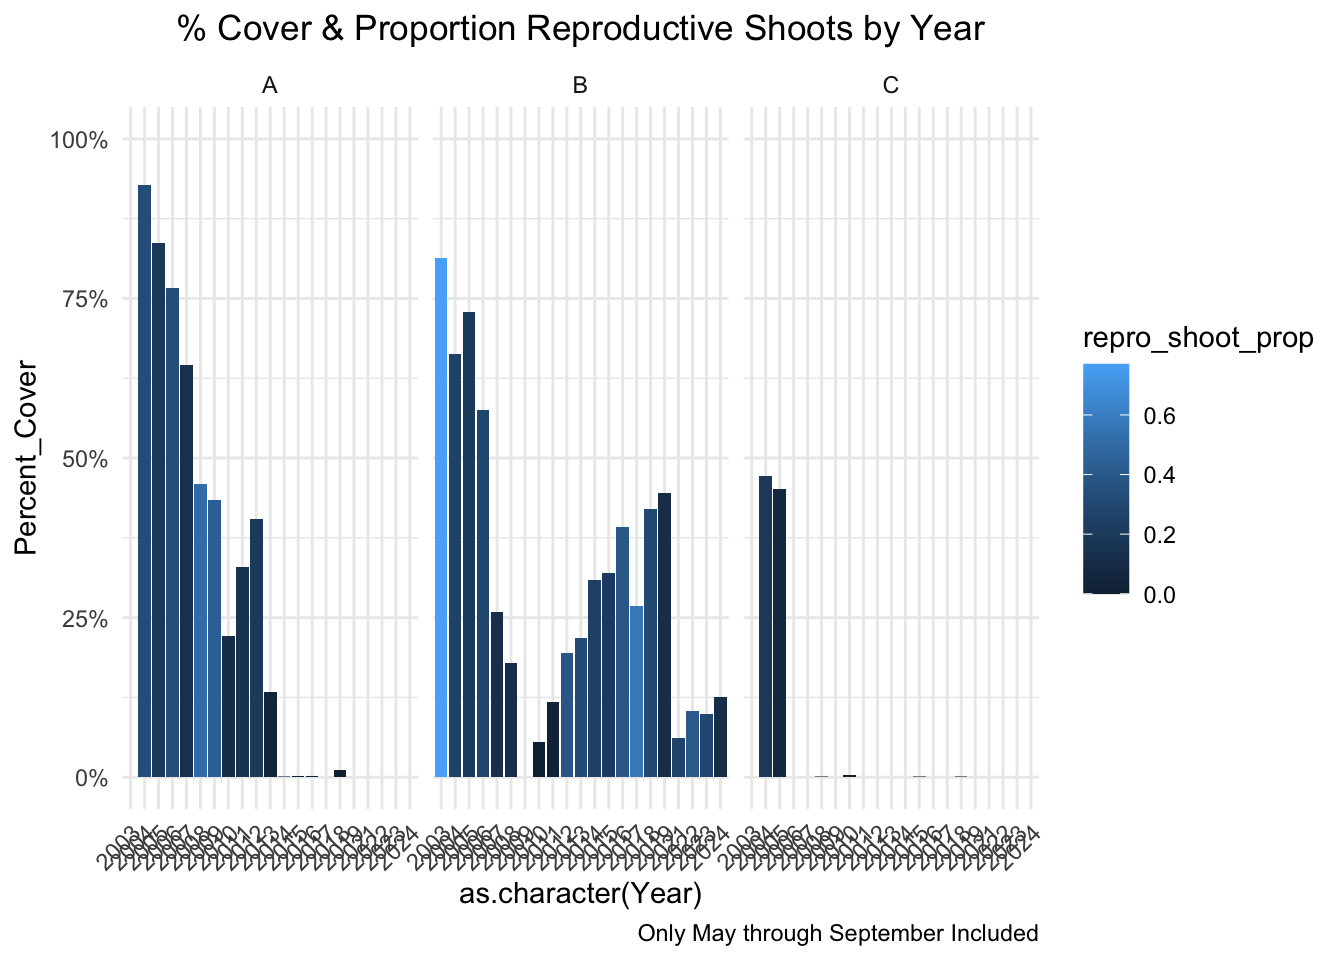
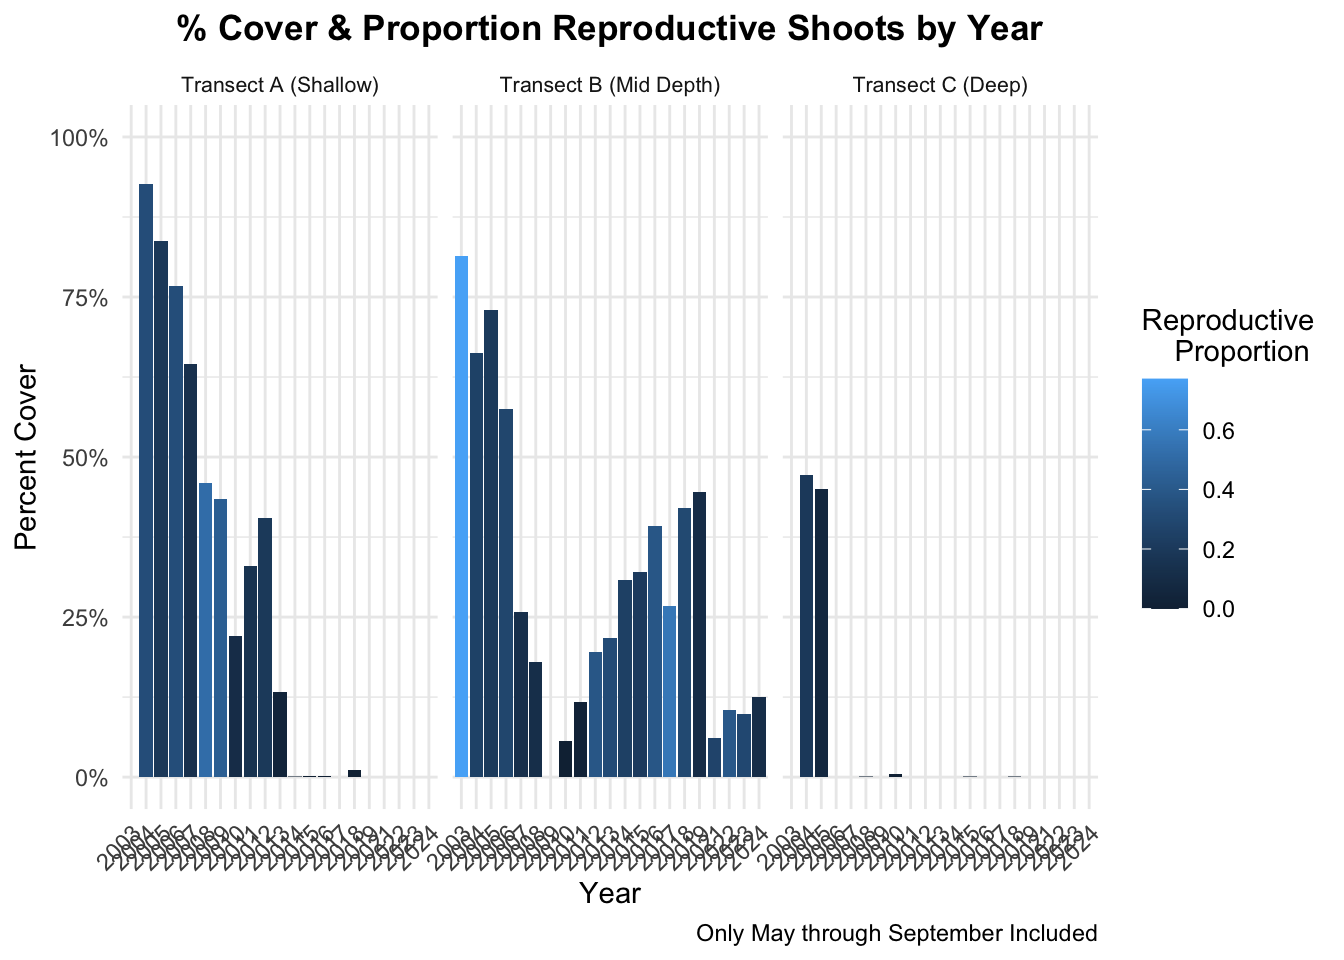
Update plot labeling and clarity

Changed region(s): [[0.0, 0.0, 1.0, 1.0]]

diff --git a/quarto_docs/nps_eelgrass_monitor.html b/quarto_docs/nps_eelgrass_monitor.html
@@ -303,17 +303,34 @@ pre > code.sourceCode > span > a:first-child::before { text-decoration: underlin
 <span id="cb9-11"><a href="#cb9-11" aria-hidden="true" tabindex="-1"></a><span class="co">#        caption = "Only May through September Included")</span></span>
 <span id="cb9-12"><a href="#cb9-12" aria-hidden="true" tabindex="-1"></a></span>
 <span id="cb9-13"><a href="#cb9-13" aria-hidden="true" tabindex="-1"></a></span>
-<span id="cb9-14"><a href="#cb9-14" aria-hidden="true" tabindex="-1"></a><span class="co"># Bar plot showing percent cover by year, colored by proportion of shoots which are reproductive</span></span>
-<span id="cb9-15"><a href="#cb9-15" aria-hidden="true" tabindex="-1"></a><span class="fu">ggplot</span>(dh_data_summary_fruiting,</span>
-<span id="cb9-16"><a href="#cb9-16" aria-hidden="true" tabindex="-1"></a>       <span class="fu">aes</span>(<span class="at">x =</span> <span class="fu">as.character</span>(Year), <span class="at">y =</span> Percent_Cover, <span class="at">fill =</span> repro_shoot_prop)) <span class="sc">+</span></span>
-<span id="cb9-17"><a href="#cb9-17" aria-hidden="true" tabindex="-1"></a>  <span class="fu">geom_bar</span>(<span class="at">stat =</span> <span class="st">"identity"</span>) <span class="sc">+</span></span>
-<span id="cb9-18"><a href="#cb9-18" aria-hidden="true" tabindex="-1"></a>  <span class="fu">scale_y_continuous</span>(</span>
-<span id="cb9-19"><a href="#cb9-19" aria-hidden="true" tabindex="-1"></a>    <span class="at">labels =</span> scales<span class="sc">::</span><span class="fu">percent_format</span>(),</span>
-<span id="cb9-20"><a href="#cb9-20" aria-hidden="true" tabindex="-1"></a>    <span class="at">limits =</span> <span class="fu">c</span>(<span class="dv">0</span>, <span class="dv">1</span>)</span>
-<span id="cb9-21"><a href="#cb9-21" aria-hidden="true" tabindex="-1"></a>  ) <span class="sc">+</span></span>
-<span id="cb9-22"><a href="#cb9-22" aria-hidden="true" tabindex="-1"></a>  <span class="fu">facet_wrap</span>(<span class="sc">~</span>Transect) <span class="sc">+</span> </span>
-<span id="cb9-23"><a href="#cb9-23" aria-hidden="true" tabindex="-1"></a>  <span class="fu">labs</span>(<span class="at">title =</span> <span class="st">"% Cover &amp; Proportion Reproductive Shoots by Year"</span>,</span>
-<span id="cb9-24"><a href="#cb9-24" aria-hidden="true" tabindex="-1"></a>       <span class="at">caption =</span> <span class="st">"Only May through September Included"</span>)</span></code><button title="Copy to Clipboard" class="code-copy-button"><i class="bi"></i></button></pre></div>
+<span id="cb9-14"><a href="#cb9-14" aria-hidden="true" tabindex="-1"></a><span class="co"># Create facet labels for faceted plots</span></span>
+<span id="cb9-15"><a href="#cb9-15" aria-hidden="true" tabindex="-1"></a>transect_labels <span class="ot">&lt;-</span> <span class="fu">c</span>(</span>
+<span id="cb9-16"><a href="#cb9-16" aria-hidden="true" tabindex="-1"></a>  <span class="st">"A"</span> <span class="ot">=</span> <span class="st">"Transect A (Shallow)"</span>,</span>
+<span id="cb9-17"><a href="#cb9-17" aria-hidden="true" tabindex="-1"></a>  <span class="st">"B"</span> <span class="ot">=</span> <span class="st">"Transect B (Mid Depth)"</span>,</span>
+<span id="cb9-18"><a href="#cb9-18" aria-hidden="true" tabindex="-1"></a>  <span class="st">"C"</span> <span class="ot">=</span> <span class="st">"Transect C (Deep)"</span></span>
+<span id="cb9-19"><a href="#cb9-19" aria-hidden="true" tabindex="-1"></a>)</span>
+<span id="cb9-20"><a href="#cb9-20" aria-hidden="true" tabindex="-1"></a></span>
+<span id="cb9-21"><a href="#cb9-21" aria-hidden="true" tabindex="-1"></a><span class="co"># Bar plot showing percent cover by year, colored by proportion of shoots which are reproductive</span></span>
+<span id="cb9-22"><a href="#cb9-22" aria-hidden="true" tabindex="-1"></a><span class="fu">ggplot</span>(dh_data_summary_fruiting,</span>
+<span id="cb9-23"><a href="#cb9-23" aria-hidden="true" tabindex="-1"></a>       <span class="fu">aes</span>(<span class="at">x =</span> <span class="fu">as.character</span>(Year), <span class="at">y =</span> Percent_Cover, <span class="at">fill =</span> repro_shoot_prop)) <span class="sc">+</span></span>
+<span id="cb9-24"><a href="#cb9-24" aria-hidden="true" tabindex="-1"></a>  <span class="fu">geom_bar</span>(<span class="at">stat =</span> <span class="st">"identity"</span>) <span class="sc">+</span></span>
+<span id="cb9-25"><a href="#cb9-25" aria-hidden="true" tabindex="-1"></a>  <span class="fu">scale_y_continuous</span>(</span>
+<span id="cb9-26"><a href="#cb9-26" aria-hidden="true" tabindex="-1"></a>    <span class="at">labels =</span> scales<span class="sc">::</span><span class="fu">percent_format</span>(),</span>
+<span id="cb9-27"><a href="#cb9-27" aria-hidden="true" tabindex="-1"></a>    <span class="at">limits =</span> <span class="fu">c</span>(<span class="dv">0</span>, <span class="dv">1</span>)</span>
+<span id="cb9-28"><a href="#cb9-28" aria-hidden="true" tabindex="-1"></a>  ) <span class="sc">+</span></span>
+<span id="cb9-29"><a href="#cb9-29" aria-hidden="true" tabindex="-1"></a>  <span class="fu">facet_wrap</span>(<span class="sc">~</span>Transect, <span class="at">labeller =</span> <span class="fu">labeller</span>(<span class="at">Transect =</span> transect_labels)) <span class="sc">+</span> </span>
+<span id="cb9-30"><a href="#cb9-30" aria-hidden="true" tabindex="-1"></a>  <span class="fu">labs</span>(</span>
+<span id="cb9-31"><a href="#cb9-31" aria-hidden="true" tabindex="-1"></a>    <span class="at">title =</span> <span class="st">"% Cover &amp; Proportion Reproductive Shoots by Year"</span>,</span>
+<span id="cb9-32"><a href="#cb9-32" aria-hidden="true" tabindex="-1"></a>    <span class="at">caption =</span> <span class="st">"Only May through September Included"</span>,</span>
+<span id="cb9-33"><a href="#cb9-33" aria-hidden="true" tabindex="-1"></a>    <span class="at">fill =</span> <span class="st">"Reproductive</span></span>
+<span id="cb9-34"><a href="#cb9-34" aria-hidden="true" tabindex="-1"></a><span class="st">    Proportion"</span>,</span>
+<span id="cb9-35"><a href="#cb9-35" aria-hidden="true" tabindex="-1"></a>    <span class="at">x =</span> <span class="st">"Year"</span>,</span>
+<span id="cb9-36"><a href="#cb9-36" aria-hidden="true" tabindex="-1"></a>    <span class="at">y =</span> <span class="st">"Percent Cover"</span></span>
+<span id="cb9-37"><a href="#cb9-37" aria-hidden="true" tabindex="-1"></a>  ) <span class="sc">+</span></span>
+<span id="cb9-38"><a href="#cb9-38" aria-hidden="true" tabindex="-1"></a>  <span class="fu">theme</span>(</span>
+<span id="cb9-39"><a href="#cb9-39" aria-hidden="true" tabindex="-1"></a>    <span class="at">strip.text =</span> <span class="fu">element_text</span>(<span class="at">size =</span> <span class="dv">8</span>),</span>
+<span id="cb9-40"><a href="#cb9-40" aria-hidden="true" tabindex="-1"></a>    <span class="at">plot.title =</span> <span class="fu">element_text</span>(<span class="at">hjust =</span> <span class="fl">0.5</span>, <span class="at">face =</span> <span class="st">"bold"</span>)</span>
+<span id="cb9-41"><a href="#cb9-41" aria-hidden="true" tabindex="-1"></a>  )</span></code><button title="Copy to Clipboard" class="code-copy-button"><i class="bi"></i></button></pre></div>
 </details>
 <div class="cell-output-display">
 <div>
@@ -351,9 +368,22 @@ pre > code.sourceCode > span > a:first-child::before { text-decoration: underlin
 <span id="cb10-25"><a href="#cb10-25" aria-hidden="true" tabindex="-1"></a>    <span class="at">labels =</span> scales<span class="sc">::</span><span class="fu">percent_format</span>(),</span>
 <span id="cb10-26"><a href="#cb10-26" aria-hidden="true" tabindex="-1"></a>    <span class="at">limits =</span> <span class="fu">c</span>(<span class="dv">0</span>, <span class="dv">1</span>)</span>
 <span id="cb10-27"><a href="#cb10-27" aria-hidden="true" tabindex="-1"></a>  ) <span class="sc">+</span></span>
-<span id="cb10-28"><a href="#cb10-28" aria-hidden="true" tabindex="-1"></a>  <span class="fu">facet_wrap</span>(<span class="sc">~</span>Transect) <span class="sc">+</span> </span>
-<span id="cb10-29"><a href="#cb10-29" aria-hidden="true" tabindex="-1"></a>  <span class="fu">labs</span>(<span class="at">title =</span> <span class="st">"% Cover &amp; Proportion of Reproductive Shoots by Year"</span>,</span>
-<span id="cb10-30"><a href="#cb10-30" aria-hidden="true" tabindex="-1"></a>       <span class="at">caption =</span> <span class="st">"Only May through September Included"</span>)</span></code><button title="Copy to Clipboard" class="code-copy-button"><i class="bi"></i></button></pre></div>
+<span id="cb10-28"><a href="#cb10-28" aria-hidden="true" tabindex="-1"></a>  <span class="fu">facet_wrap</span>(<span class="sc">~</span>Transect, <span class="at">labeller =</span> <span class="fu">labeller</span>(<span class="at">Transect =</span> transect_labels)) <span class="sc">+</span></span>
+<span id="cb10-29"><a href="#cb10-29" aria-hidden="true" tabindex="-1"></a>  <span class="fu">labs</span>(<span class="at">title =</span> <span class="st">"Proportion of Reproductive Shoots by Year"</span>,</span>
+<span id="cb10-30"><a href="#cb10-30" aria-hidden="true" tabindex="-1"></a>       <span class="at">caption =</span> <span class="st">"Only May through September Included"</span>,</span>
+<span id="cb10-31"><a href="#cb10-31" aria-hidden="true" tabindex="-1"></a>       <span class="at">x =</span> <span class="st">"Year"</span>,</span>
+<span id="cb10-32"><a href="#cb10-32" aria-hidden="true" tabindex="-1"></a>       <span class="at">y =</span> <span class="st">"Proportion of Total Shoots"</span>,</span>
+<span id="cb10-33"><a href="#cb10-33" aria-hidden="true" tabindex="-1"></a>       <span class="at">fill =</span> <span class="st">"Cover Type"</span></span>
+<span id="cb10-34"><a href="#cb10-34" aria-hidden="true" tabindex="-1"></a>       ) <span class="sc">+</span></span>
+<span id="cb10-35"><a href="#cb10-35" aria-hidden="true" tabindex="-1"></a>  <span class="fu">scale_fill_manual</span>(</span>
+<span id="cb10-36"><a href="#cb10-36" aria-hidden="true" tabindex="-1"></a>    <span class="at">values =</span> <span class="fu">c</span>(<span class="st">"non_repro_shoot_prop"</span> <span class="ot">=</span> <span class="st">"#A9B7A9"</span>, <span class="st">"repro_shoot_prop"</span> <span class="ot">=</span> <span class="st">"darkgreen"</span>),</span>
+<span id="cb10-37"><a href="#cb10-37" aria-hidden="true" tabindex="-1"></a>    <span class="at">labels =</span> <span class="fu">c</span>(<span class="st">"non_repro_shoot_prop"</span> <span class="ot">=</span> <span class="st">"Reproductive Shoots"</span>, </span>
+<span id="cb10-38"><a href="#cb10-38" aria-hidden="true" tabindex="-1"></a>               <span class="st">"repro_shoot_prop"</span> <span class="ot">=</span> <span class="st">"Non-Reproductive Shoots"</span>)</span>
+<span id="cb10-39"><a href="#cb10-39" aria-hidden="true" tabindex="-1"></a>  ) <span class="sc">+</span></span>
+<span id="cb10-40"><a href="#cb10-40" aria-hidden="true" tabindex="-1"></a>  <span class="fu">theme</span>(</span>
+<span id="cb10-41"><a href="#cb10-41" aria-hidden="true" tabindex="-1"></a>    <span class="at">strip.text =</span> <span class="fu">element_text</span>(<span class="at">size =</span> <span class="dv">8</span>),</span>
+<span id="cb10-42"><a href="#cb10-42" aria-hidden="true" tabindex="-1"></a>    <span class="at">plot.title =</span> <span class="fu">element_text</span>(<span class="at">hjust =</span> <span class="fl">0.5</span>, <span class="at">face =</span> <span class="st">"bold"</span>)</span>
+<span id="cb10-43"><a href="#cb10-43" aria-hidden="true" tabindex="-1"></a>  )</span></code><button title="Copy to Clipboard" class="code-copy-button"><i class="bi"></i></button></pre></div>
 </details>
 <div class="cell-output-display">
 <div>
@@ -403,9 +433,20 @@ pre > code.sourceCode > span > a:first-child::before { text-decoration: underlin
 <span id="cb11-37"><a href="#cb11-37" aria-hidden="true" tabindex="-1"></a>      <span class="st">"prop_wasting_high"</span> <span class="ot">=</span> <span class="st">"red"</span>,</span>
 <span id="cb11-38"><a href="#cb11-38" aria-hidden="true" tabindex="-1"></a>      <span class="st">"prop_wasting_low"</span> <span class="ot">=</span> <span class="st">"skyblue"</span>,</span>
 <span id="cb11-39"><a href="#cb11-39" aria-hidden="true" tabindex="-1"></a>      <span class="st">"prop_wasting_trace"</span> <span class="ot">=</span> <span class="st">"lightgreen"</span>,</span>
-<span id="cb11-40"><a href="#cb11-40" aria-hidden="true" tabindex="-1"></a>      <span class="st">"prop_wasting_none"</span> <span class="ot">=</span> <span class="st">"gray"</span>)) <span class="sc">+</span></span>
-<span id="cb11-41"><a href="#cb11-41" aria-hidden="true" tabindex="-1"></a>  <span class="fu">facet_wrap</span>(<span class="sc">~</span>Transect) <span class="sc">+</span></span>
-<span id="cb11-42"><a href="#cb11-42" aria-hidden="true" tabindex="-1"></a>  <span class="fu">labs</span>(<span class="at">title =</span> <span class="st">"Wasting Status Proportion by Year"</span>)</span></code><button title="Copy to Clipboard" class="code-copy-button"><i class="bi"></i></button></pre></div>
+<span id="cb11-40"><a href="#cb11-40" aria-hidden="true" tabindex="-1"></a>      <span class="st">"prop_wasting_none"</span> <span class="ot">=</span> <span class="st">"gray"</span>),</span>
+<span id="cb11-41"><a href="#cb11-41" aria-hidden="true" tabindex="-1"></a>    <span class="at">labels =</span> <span class="fu">c</span>(</span>
+<span id="cb11-42"><a href="#cb11-42" aria-hidden="true" tabindex="-1"></a>      <span class="st">"prop_wasting_high"</span> <span class="ot">=</span> <span class="st">"High"</span>,</span>
+<span id="cb11-43"><a href="#cb11-43" aria-hidden="true" tabindex="-1"></a>      <span class="st">"prop_wasting_low"</span> <span class="ot">=</span> <span class="st">"Low"</span>,</span>
+<span id="cb11-44"><a href="#cb11-44" aria-hidden="true" tabindex="-1"></a>      <span class="st">"prop_wasting_trace"</span> <span class="ot">=</span> <span class="st">"Trace"</span>,</span>
+<span id="cb11-45"><a href="#cb11-45" aria-hidden="true" tabindex="-1"></a>      <span class="st">"prop_wasting_none"</span> <span class="ot">=</span> <span class="st">"None"</span>)) <span class="sc">+</span></span>
+<span id="cb11-46"><a href="#cb11-46" aria-hidden="true" tabindex="-1"></a>  <span class="fu">facet_wrap</span>(<span class="sc">~</span>Transect, <span class="at">labeller =</span> <span class="fu">labeller</span>(<span class="at">Transect =</span> transect_labels)) <span class="sc">+</span></span>
+<span id="cb11-47"><a href="#cb11-47" aria-hidden="true" tabindex="-1"></a>  <span class="fu">labs</span>(<span class="at">title =</span> <span class="st">"Wasting Status Proportion by Year"</span>,</span>
+<span id="cb11-48"><a href="#cb11-48" aria-hidden="true" tabindex="-1"></a>       <span class="at">x =</span> <span class="st">"Year"</span>,</span>
+<span id="cb11-49"><a href="#cb11-49" aria-hidden="true" tabindex="-1"></a>       <span class="at">y =</span> <span class="st">"Proportion"</span>) <span class="sc">+</span></span>
+<span id="cb11-50"><a href="#cb11-50" aria-hidden="true" tabindex="-1"></a>  <span class="fu">theme</span>(</span>
+<span id="cb11-51"><a href="#cb11-51" aria-hidden="true" tabindex="-1"></a>    <span class="at">strip.text =</span> <span class="fu">element_text</span>(<span class="at">size =</span> <span class="dv">8</span>),</span>
+<span id="cb11-52"><a href="#cb11-52" aria-hidden="true" tabindex="-1"></a>    <span class="at">plot.title =</span> <span class="fu">element_text</span>(<span class="at">hjust =</span> <span class="fl">0.5</span>, <span class="at">face =</span> <span class="st">"bold"</span>)</span>
+<span id="cb11-53"><a href="#cb11-53" aria-hidden="true" tabindex="-1"></a>  )</span></code><button title="Copy to Clipboard" class="code-copy-button"><i class="bi"></i></button></pre></div>
 </details>
 <div class="cell-output-display">
 <div>
@@ -423,8 +464,16 @@ pre > code.sourceCode > span > a:first-child::before { text-decoration: underlin
 <span id="cb12-5"><a href="#cb12-5" aria-hidden="true" tabindex="-1"></a>    <span class="at">labels =</span> scales<span class="sc">::</span><span class="fu">percent_format</span>(),</span>
 <span id="cb12-6"><a href="#cb12-6" aria-hidden="true" tabindex="-1"></a>    <span class="at">limits =</span> <span class="fu">c</span>(<span class="dv">0</span>, <span class="dv">1</span>)) <span class="sc">+</span></span>
 <span id="cb12-7"><a href="#cb12-7" aria-hidden="true" tabindex="-1"></a>  <span class="fu">scale_fill_gradient</span>(<span class="at">low =</span> <span class="st">"gray"</span>, <span class="at">high =</span> <span class="st">"red"</span>) <span class="sc">+</span></span>
-<span id="cb12-8"><a href="#cb12-8" aria-hidden="true" tabindex="-1"></a>  <span class="fu">facet_wrap</span>(<span class="sc">~</span>Transect) <span class="sc">+</span> </span>
-<span id="cb12-9"><a href="#cb12-9" aria-hidden="true" tabindex="-1"></a>  <span class="fu">labs</span>(<span class="at">title =</span> <span class="st">"% Cover &amp; Proportion High Wasting Disease by Year"</span>)</span></code><button title="Copy to Clipboard" class="code-copy-button"><i class="bi"></i></button></pre></div>
+<span id="cb12-8"><a href="#cb12-8" aria-hidden="true" tabindex="-1"></a>  <span class="fu">facet_wrap</span>(<span class="sc">~</span>Transect, <span class="at">labeller =</span> <span class="fu">labeller</span>(<span class="at">Transect =</span> transect_labels)) <span class="sc">+</span></span>
+<span id="cb12-9"><a href="#cb12-9" aria-hidden="true" tabindex="-1"></a>  <span class="fu">labs</span>(<span class="at">title =</span> <span class="st">"% Cover &amp; Proportion High Wasting Disease by Year"</span>,</span>
+<span id="cb12-10"><a href="#cb12-10" aria-hidden="true" tabindex="-1"></a>       <span class="at">x =</span> <span class="st">"Year"</span>,</span>
+<span id="cb12-11"><a href="#cb12-11" aria-hidden="true" tabindex="-1"></a>       <span class="at">y =</span> <span class="st">"Percent Cover"</span>,</span>
+<span id="cb12-12"><a href="#cb12-12" aria-hidden="true" tabindex="-1"></a>       <span class="at">fill =</span> <span class="st">"Proportion with High</span></span>
+<span id="cb12-13"><a href="#cb12-13" aria-hidden="true" tabindex="-1"></a><span class="st">    Levels of Wasting"</span>) <span class="sc">+</span></span>
+<span id="cb12-14"><a href="#cb12-14" aria-hidden="true" tabindex="-1"></a>  <span class="fu">theme</span>(</span>
+<span id="cb12-15"><a href="#cb12-15" aria-hidden="true" tabindex="-1"></a>    <span class="at">strip.text =</span> <span class="fu">element_text</span>(<span class="at">size =</span> <span class="dv">8</span>),</span>
+<span id="cb12-16"><a href="#cb12-16" aria-hidden="true" tabindex="-1"></a>    <span class="at">plot.title =</span> <span class="fu">element_text</span>(<span class="at">hjust =</span> <span class="fl">0.5</span>, <span class="at">face =</span> <span class="st">"bold"</span>)</span>
+<span id="cb12-17"><a href="#cb12-17" aria-hidden="true" tabindex="-1"></a>  )</span></code><button title="Copy to Clipboard" class="code-copy-button"><i class="bi"></i></button></pre></div>
 </details>
 <div class="cell-output-display">
 <div>
